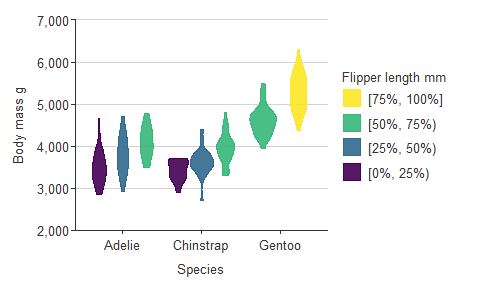
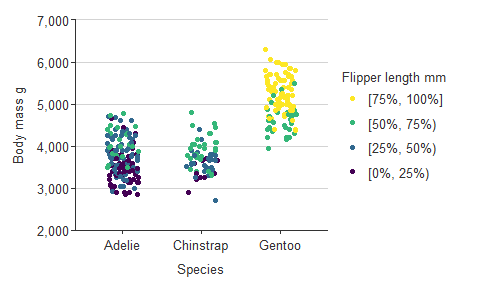
Close #100 and close #101

diff --git a/README.md b/README.md
@@ -152,11 +152,12 @@ penguins %>%
 
 ``` r
 penguins %>%
-  gg_violin(
+  gg_jitter(
     x = species,
     y = body_mass_g,
     col = flipper_length_mm,
-    col_intervals = ~santoku::chop_quantiles(.x, probs = seq(0, 1, 0.25)))
+    col_intervals = ~santoku::chop_quantiles(.x, probs = seq(0, 1, 0.25)),
+    position = position_jitter(width = 0.2, height = 0))
 ```
 
 <img src="man/figures/README-unnamed-chunk-10-1.png" width="100%" />
